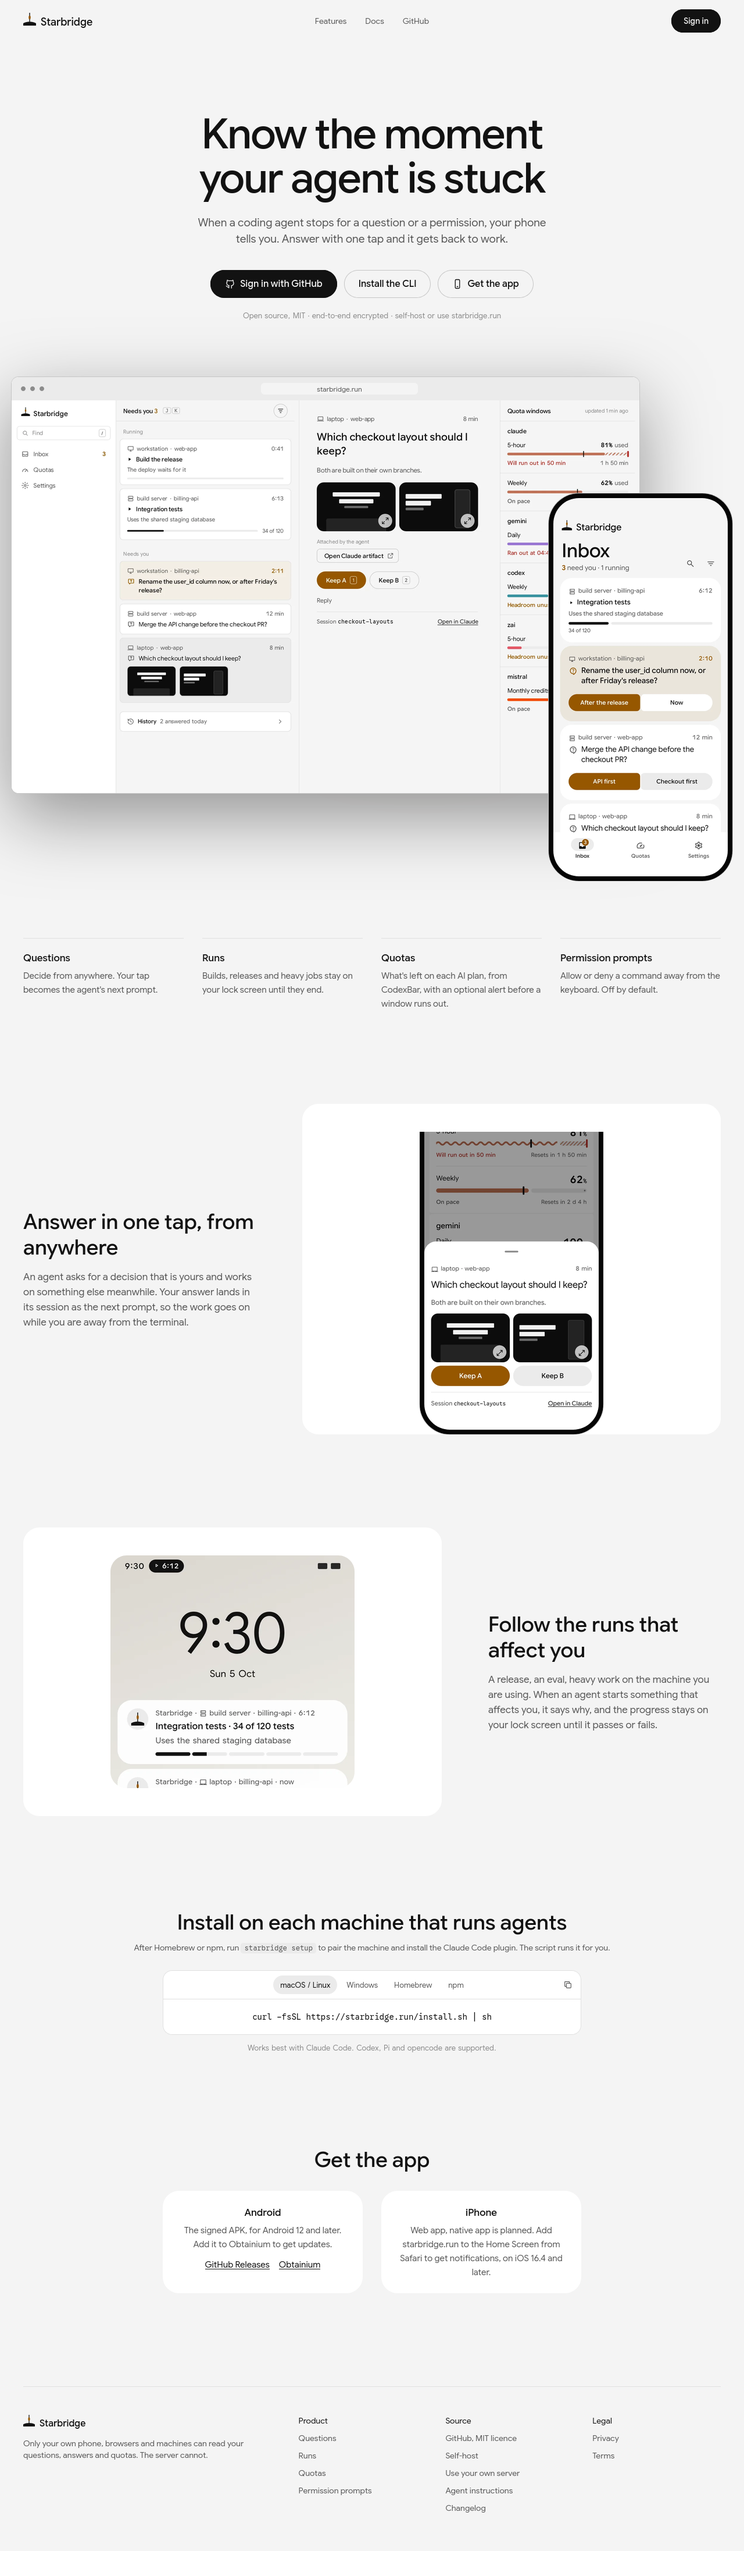
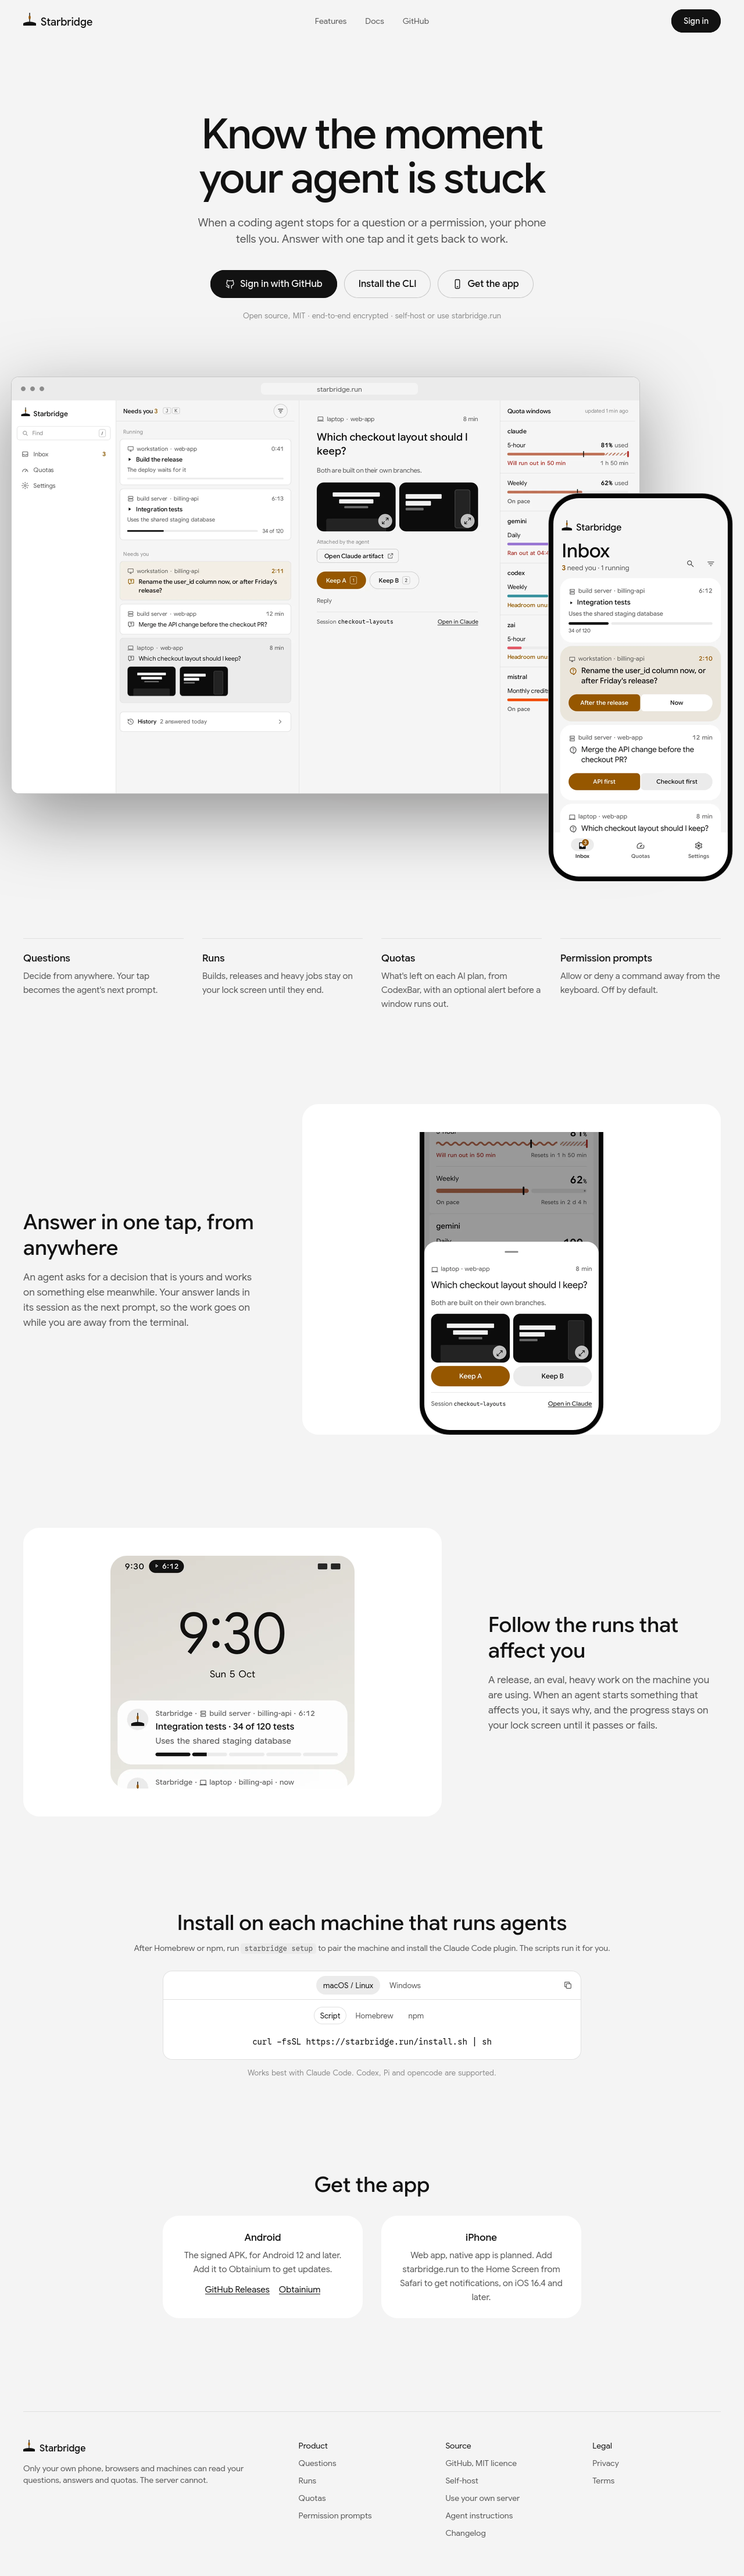
Landing: the install box picks the platform first, then the method (#655)

diff --git a/web/src/components/Landing.tsx b/web/src/components/Landing.tsx
@@ -68,12 +68,26 @@ const FEATURES = [
   ["Permission prompts", "Allow or deny a command away from the keyboard. Off by default."],
 ] as const;
 
-/** Label, command, and the method the copy event reports, kept as first named. */
+/**
+ * Each platform's ways to install: label, command, and the method the copy event reports, kept
+ * as first named. npm is the same package on both.
+ */
 const INSTALL = [
-  ["macOS / Linux", "curl -fsSL https://starbridge.run/install.sh | sh", "Script"],
-  ["Windows", "irm https://starbridge.run/install.ps1 | iex", "Windows"],
-  ["Homebrew", "brew install T0mSIlver/starbridge/starbridge", "Homebrew"],
-  ["npm", "npm i -g starbridge", "npm"],
+  {
+    platform: "macOS / Linux",
+    methods: [
+      ["Script", "curl -fsSL https://starbridge.run/install.sh | sh", "Script"],
+      ["Homebrew", "brew install T0mSIlver/starbridge/starbridge", "Homebrew"],
+      ["npm", "npm i -g starbridge", "npm"],
+    ],
+  },
+  {
+    platform: "Windows",
+    methods: [
+      ["PowerShell", "irm https://starbridge.run/install.ps1 | iex", "Windows"],
+      ["npm", "npm i -g starbridge", "npm"],
+    ],
+  },
 ] as const;
 
 /** Docs opened from the landing page; the docs pages count their own views. */
@@ -81,13 +95,15 @@ const openDocs = (page: string) => () => track("open-docs", { page });
 
 function Install() {
   const [at, setAt] = useState(0);
+  const [way, setWay] = useState(0);
   const [copied, setCopied] = useState(false);
-  const [, cmd, method] = INSTALL[at] ?? ["", "", ""];
+  const platform = INSTALL[at] ?? INSTALL[0];
+  const [, cmd, method] = platform.methods[way] ?? platform.methods[0];
   const onCopied = () => track("copy-install", { method });
   return (
     <div className={s.install}>
-      <div className={`t-meta ${s.tabs}`} role="tablist" aria-label="Install with">
-        {INSTALL.map(([label], i) => (
+      <div className={`t-meta ${s.tabs}`} role="tablist" aria-label="Install on">
+        {INSTALL.map(({ platform: label }, i) => (
           <button
             key={label}
             type="button"
@@ -96,6 +112,7 @@ function Install() {
             className={s.tab}
             onClick={() => {
               setAt(i);
+              setWay(0);
               setCopied(false);
             }}
           >
@@ -116,6 +133,23 @@ function Install() {
         >
           <Icon name={copied ? "check" : "copy"} size={16} />
         </button>
+      </div>
+      <div className={`t-meta ${s.methods}`} role="tablist" aria-label="Install with">
+        {platform.methods.map(([label], i) => (
+          <button
+            key={label}
+            type="button"
+            role="tab"
+            aria-selected={i === way}
+            className={s.method}
+            onClick={() => {
+              setWay(i);
+              setCopied(false);
+            }}
+          >
+            {label}
+          </button>
+        ))}
       </div>
       <pre className={`t-code ${s.cmd}`} role="tabpanel" onCopy={onCopied}>
         {cmd}
@@ -259,7 +293,7 @@ export function Landing({ onOwnerToken }: { onOwnerToken: () => void }) {
         <h2 className="t-title">Install on each machine that runs agents</h2>
         <p className={`t-small ${s.dim} ${s.wideOnly}`}>
           After Homebrew or npm, run <code className={s.inlineCode}>starbridge setup</code> to pair
-          the machine and install the Claude Code plugin. The script runs it for you.
+          the machine and install the Claude Code plugin. The scripts run it for you.
         </p>
         <Install />
         <p className={`t-meta ${s.faint}`}>

diff --git a/web/src/components/Landing.module.css b/web/src/components/Landing.module.css
@@ -313,6 +313,29 @@
   color: var(--fg);
 }
 
+/* The ways to install on the chosen platform, under its tab. */
+.methods {
+  display: flex;
+  flex-wrap: wrap;
+  justify-content: center;
+  gap: var(--s1);
+  padding: var(--s3) var(--s2) 0;
+}
+
+.method {
+  white-space: nowrap;
+  padding: var(--s1) var(--s2h);
+  border: 1px solid transparent;
+  border-radius: var(--radius-pill);
+  background: none;
+  color: var(--fg2);
+}
+
+.method[aria-selected="true"] {
+  border-color: var(--line);
+  color: var(--fg);
+}
+
 .copy {
   position: absolute;
   right: var(--s2);
